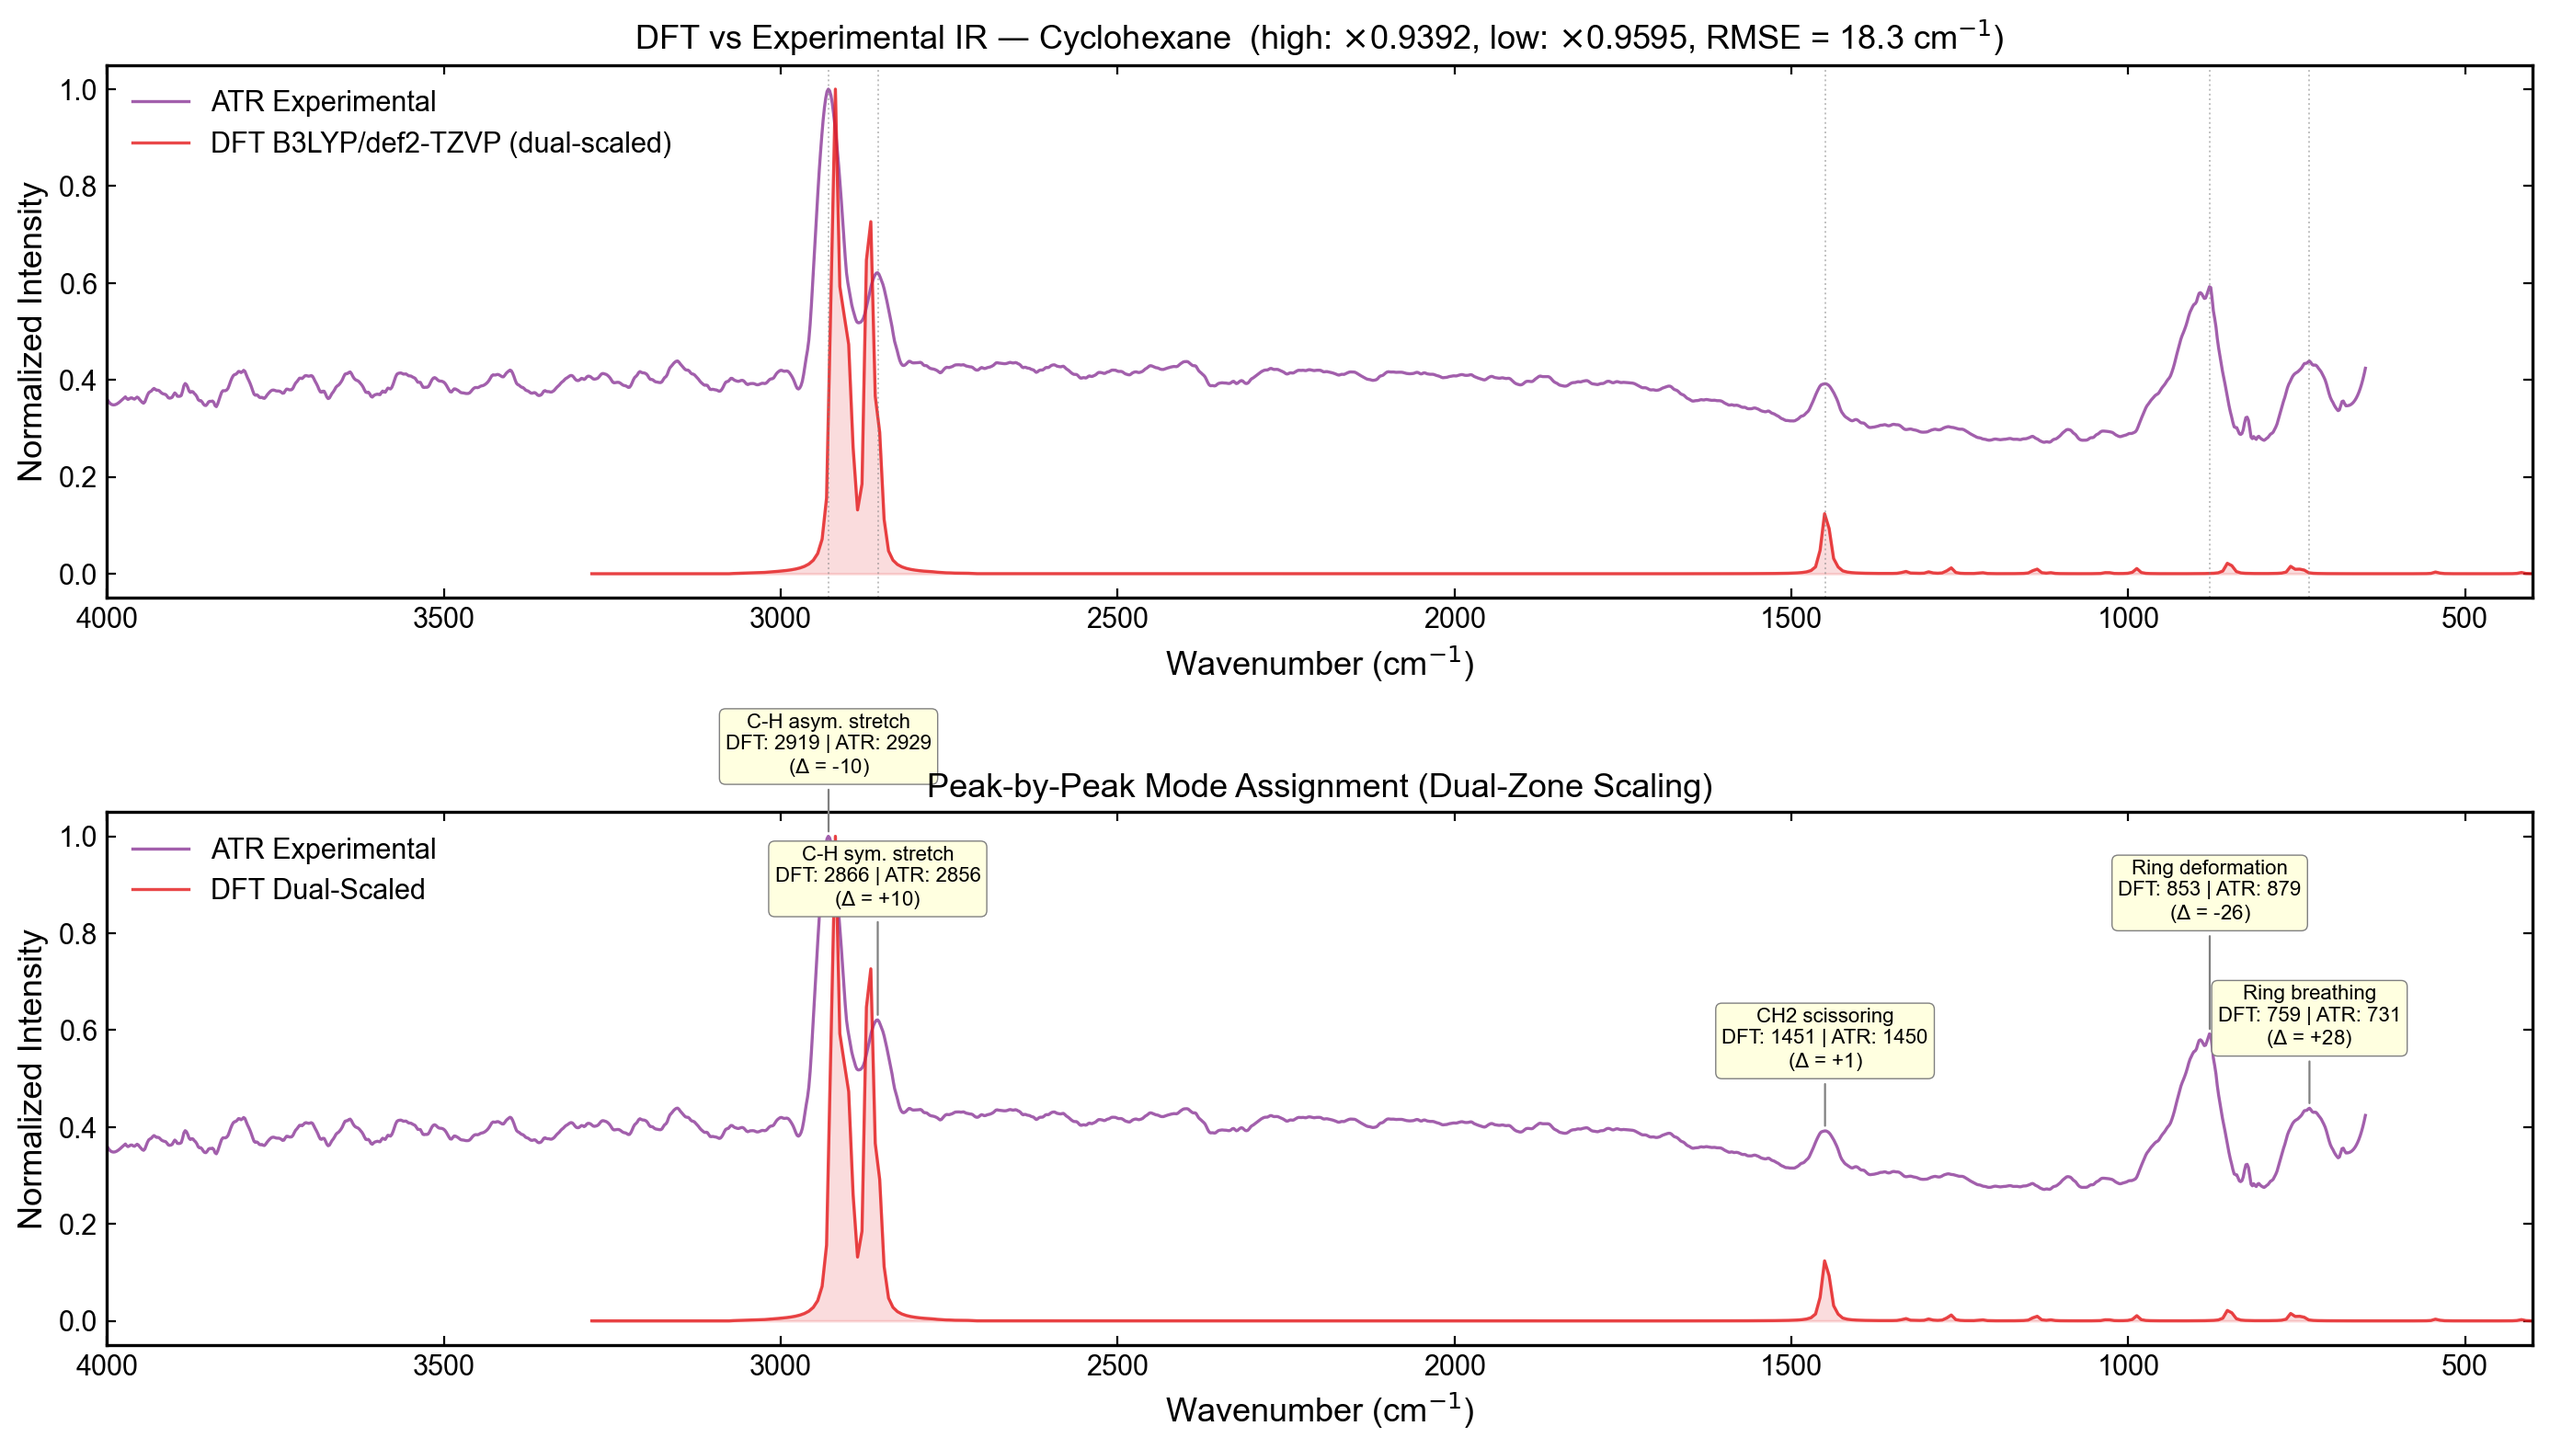
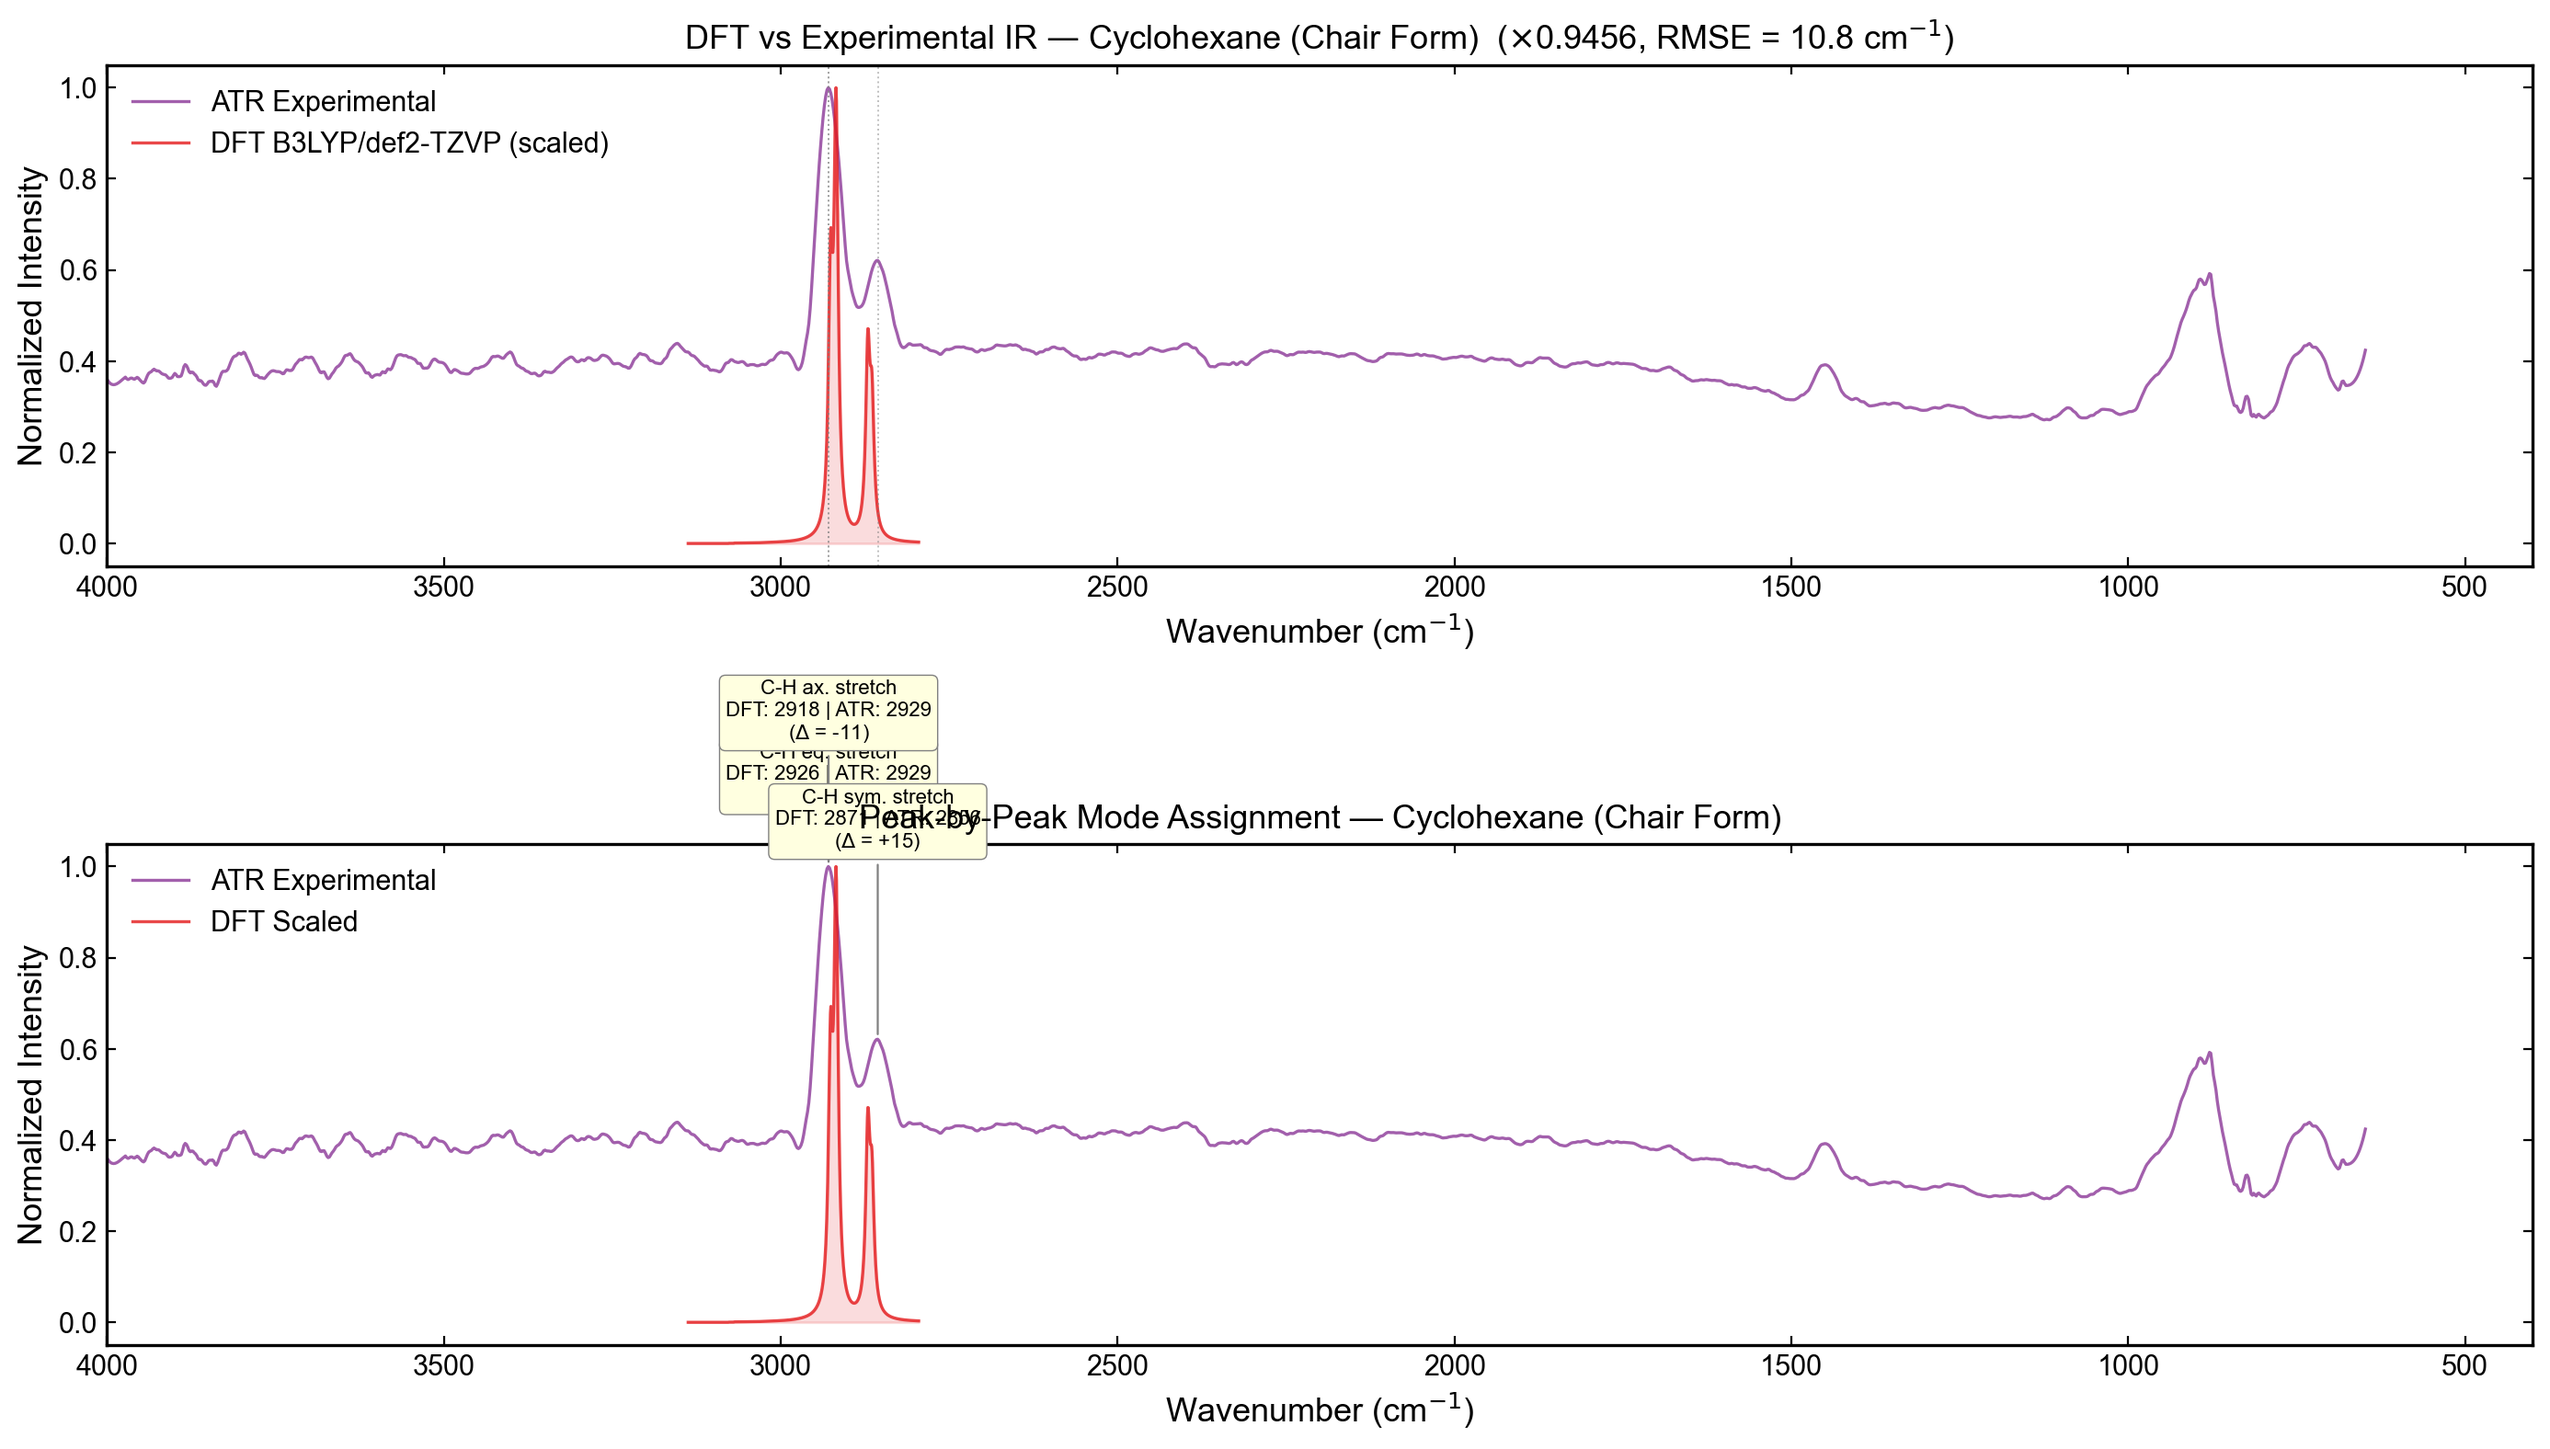
dft vs atr v3

diff --git a/README.md b/README.md
@@ -134,7 +134,7 @@ The **879 cm⁻¹ ring deformation peak is the strongest feature in the entire f
 
 #### DFT Validation — B3LYP/def2-TZVP
 
-![DFT vs ATR comparison](figures/dft_vs_atr_cyclohexane_chair.png)
+![DFT vs ATR comparison](figures/dft_vs_atr_cyclohexane.png)
 
 To further corroborate the identification, the ATR spectrum was compared against a DFT-calculated IR spectrum of cyclohexane (B3LYP/def2-TZVP). DFT harmonic frequencies are systematically blueshifted relative to experiment due to the neglect of anharmonicity; an optimal scaling factor was determined by least-squares fitting of matched peak positions.
 
